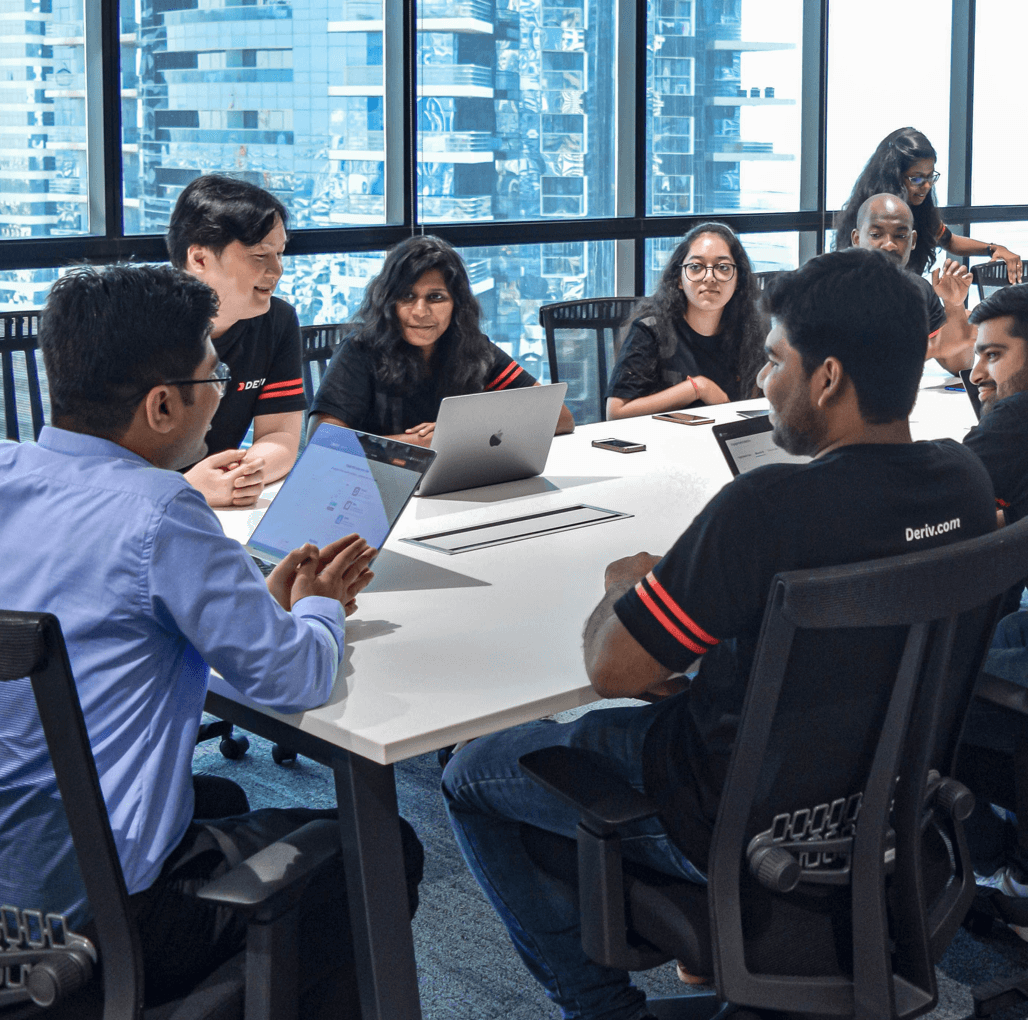
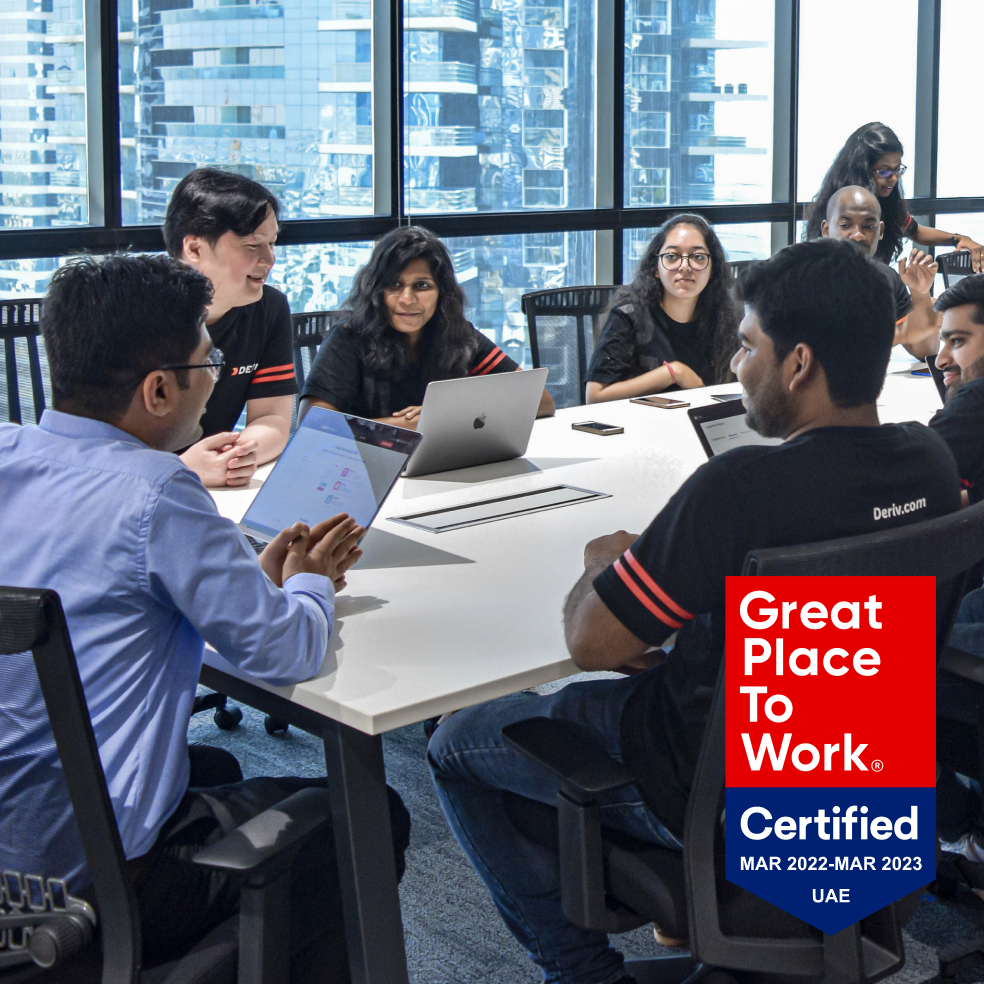
feat: add badge support for location pages (#2850)
* feat: add badge support for location pages

* fix: improve image quality

* feat: update image for dubai office

* feat: update image for dubai office

* fix: update badge image quality

diff --git a/src/pages/careers/locations/_location-layout.tsx b/src/pages/careers/locations/_location-layout.tsx
@@ -1,8 +1,9 @@
 import React from 'react'
 import PropTypes from 'prop-types'
 import styled from 'styled-components'
+import type { ImageDataLike } from 'gatsby-plugin-image'
 import CareerContainer from '../_layout-components/_career_container'
-import { locationsTypes } from '../_model/_locations/_locations.types'
+import { LocationsType } from '../_model/_locations/_locations.types'
 import device from 'themes/device'
 import { SectionContainer, Flex } from 'components/containers'
 import { Text, LinkText, Header, BackgroundImage, QueryImage } from 'components/elements'
@@ -47,14 +48,30 @@ const SecondStyledHeader = styled(Header)`
     margin-bottom: 0 24px;
 `
 
+const HeroBadge = styled(QueryImage)`
+    position: absolute;
+    left: 23%;
+    width: 94px;
+    height: 160px;
+
+    @media ${device.mobileL} {
+        left: 15%;
+        transform-origin: top;
+        transform: scale(0.75);
+    }
+`
+
 type HeroProps = {
     display_name: string
-    img_data: string
+    img_data: ImageDataLike
+    badge_data?: ImageDataLike
+    badge_alt?: string
 }
 
-const Hero = ({ display_name, img_data }: HeroProps) => {
+const Hero = ({ display_name, img_data, badge_data, badge_alt }: HeroProps) => {
     return (
         <StyledBackground data={img_data} alt={display_name}>
+            {badge_data && <HeroBadge data={badge_data} alt={badge_alt} />}
             <StyledContainer>
                 <StyledHeader as="h1">{display_name}</StyledHeader>
                 <LinkButton
@@ -335,8 +352,8 @@ const MapQueryImage = styled(QueryImage)`
 `
 
 type LocationLayoutProps = {
-    location: locationsTypes
-    images: locationsTypes
+    location: LocationsType
+    images: ImageDataLike
 }
 
 export const LocationLayout = ({ location, images }: LocationLayoutProps) => {
@@ -345,7 +362,12 @@ export const LocationLayout = ({ location, images }: LocationLayoutProps) => {
 
     return (
         <>
-            <Hero display_name={display_name} img_data={images[location.name]} />
+            <Hero
+                display_name={display_name}
+                img_data={images[location.name]}
+                badge_data={images[location.badge]}
+                badge_alt={location.badge_alt}
+            />
             <FirstSection>
                 <SecondStyledHeader
                     color="black-6"

diff --git a/src/pages/careers/locations/dubai/index.tsx b/src/pages/careers/locations/dubai/index.tsx
@@ -1,5 +1,6 @@
 import React from 'react'
 import { graphql, useStaticQuery } from 'gatsby'
+import type { ImageDataLike } from 'gatsby-plugin-image'
 import { dubai } from '../../_model/_locations/_locations'
 import { LocationLayout } from '../_location-layout'
 import { SEO } from 'components/containers'
@@ -29,11 +30,16 @@ const query = graphql`
         map_dubai: file(relativePath: { eq: "careers/maps/map-dubai.png" }) {
             ...fadeIn
         }
+        dubai_great_place_to_work_badge: file(
+            relativePath: { eq: "careers/dubai_great_place_to_work_badge.png" }
+        ) {
+            ...fadeIn
+        }
     }
 `
 
 const Dubai = () => {
-    const images = useStaticQuery(query)
+    const images = useStaticQuery<ImageDataLike>(query)
 
     return (
         <Layout type="careers">

diff --git a/src/pages/careers/_model/_locations/_locations.ts b/src/pages/careers/_model/_locations/_locations.ts
@@ -103,6 +103,8 @@ export const dubai: LocationsType = {
     address: address_dubai,
     google_map_link: 'https://goo.gl/maps/UMNHYdEBdsAg7Ax29',
     has_iframe: true,
+    badge: 'dubai_great_place_to_work_badge',
+    badge_alt: 'Dubai Great Place to Work 2022 Certification Badge',
 }
 
 export const labuan: LocationsType = {

diff --git a/src/pages/careers/_model/_locations/_locations.types.ts b/src/pages/careers/_model/_locations/_locations.types.ts
@@ -21,4 +21,6 @@ export type LocationsType = {
     // has_map check is for the new offices with ready office addresses
     // can be deprecated once all new offices have ready physical addresses
     has_map?: boolean
+    badge?: string
+    badge_alt?: string
 }
